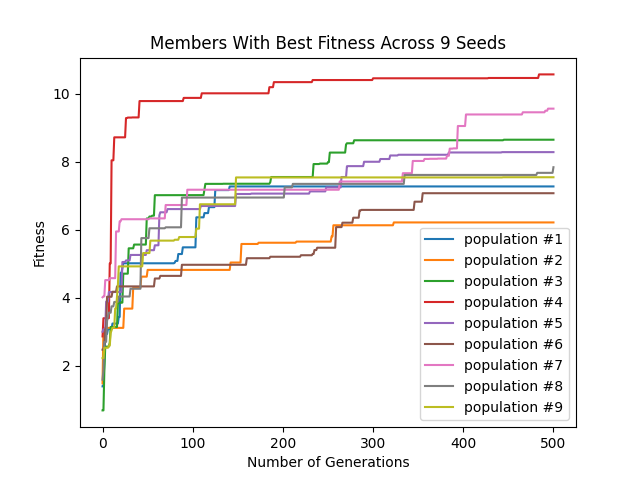
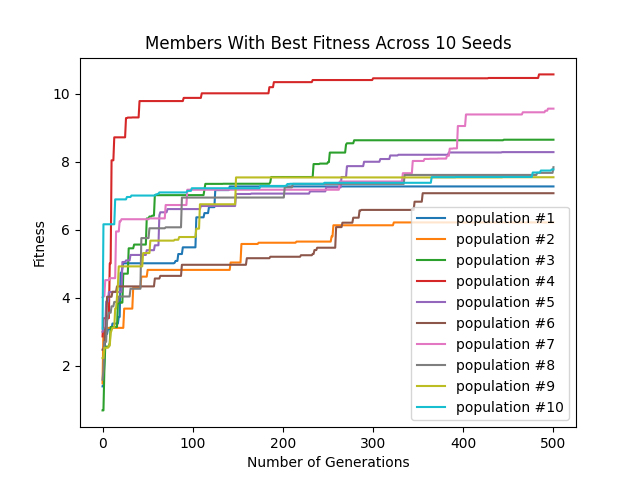
added info for seed 10

diff --git a/analyze.py b/analyze.py
@@ -5,7 +5,7 @@ import matplotlib.pyplot
 
 fitnessValues = []
 bestValues = []
-for i in range(9):
+for i in range(10):
     fitnessValues.append(np.load(f"data/fitnessValues{i+1}.npy"))
     arrayOfBest = []
     for k in range(c.numberOfGenerations + 1):
@@ -20,7 +20,7 @@ for i in range(9):
 
 for i in range(len(bestValues)):
     matplotlib.pyplot.plot(bestValues[i], label=f"population #{i+1}")
-matplotlib.pyplot.title("Members With Best Fitness Across 9 Seeds")
+matplotlib.pyplot.title("Members With Best Fitness Across 10 Seeds")
 matplotlib.pyplot.xlabel("Number of Generations")
 matplotlib.pyplot.ylabel("Fitness")
 matplotlib.pyplot.legend()
